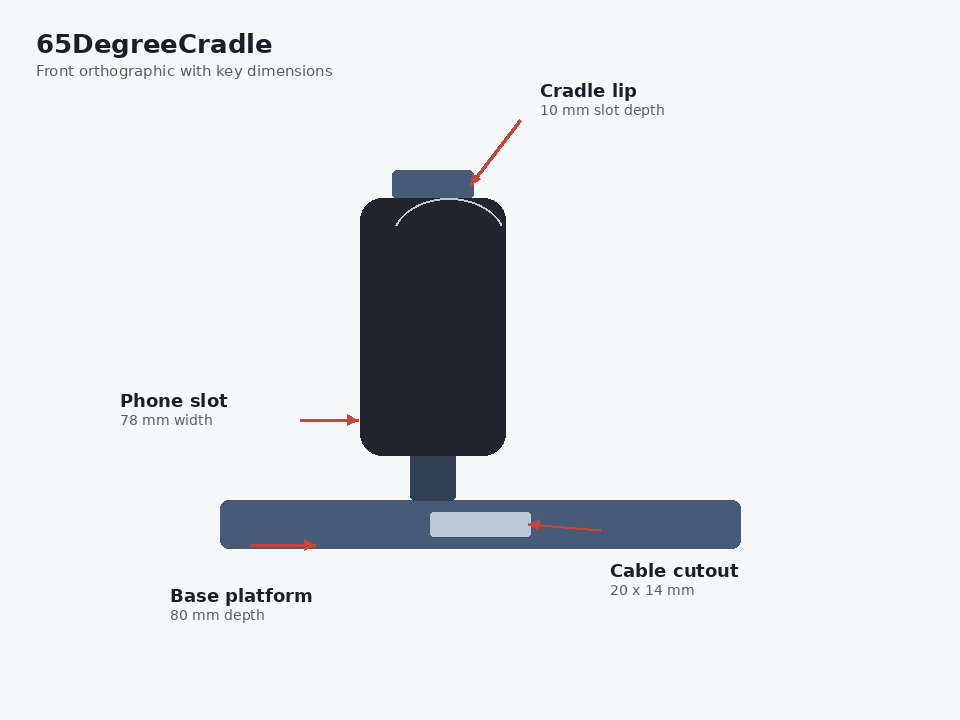
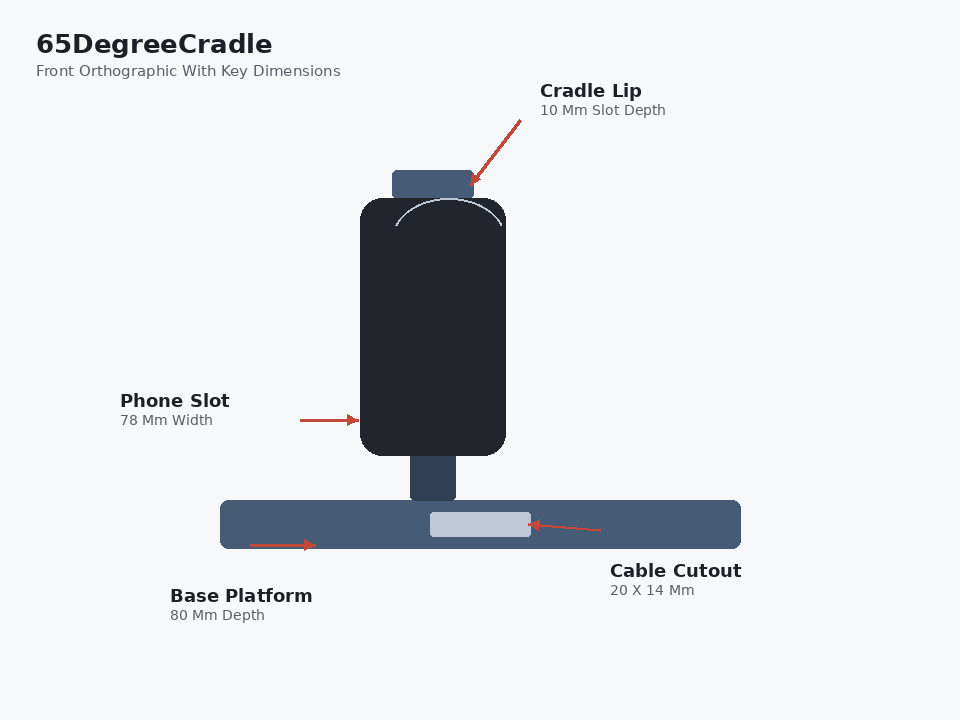
finalize annotated renders and README polish

diff --git a/README.md b/README.md
@@ -53,6 +53,14 @@ Full parameter notes are documented in [docs/parameters.md](docs/parameters.md).
 - Fillets and chamfers need to be planned around interior corners, since tight geometry can cause feature failures until the underlying edges are prepared.
 - Building a complete part end to end, from sketch to exportable mesh, is an effective way to connect CAD theory with practical design decisions.
 
+## Renders
+
+![65DegreeCradle front view](images/final_front.png)
+
+![65DegreeCradle side view](images/final_side.png)
+
+![65DegreeCradle isometric view](images/final_iso.png)
+
 ## Tools
 
 - **Onshape** for parametric part modeling and export